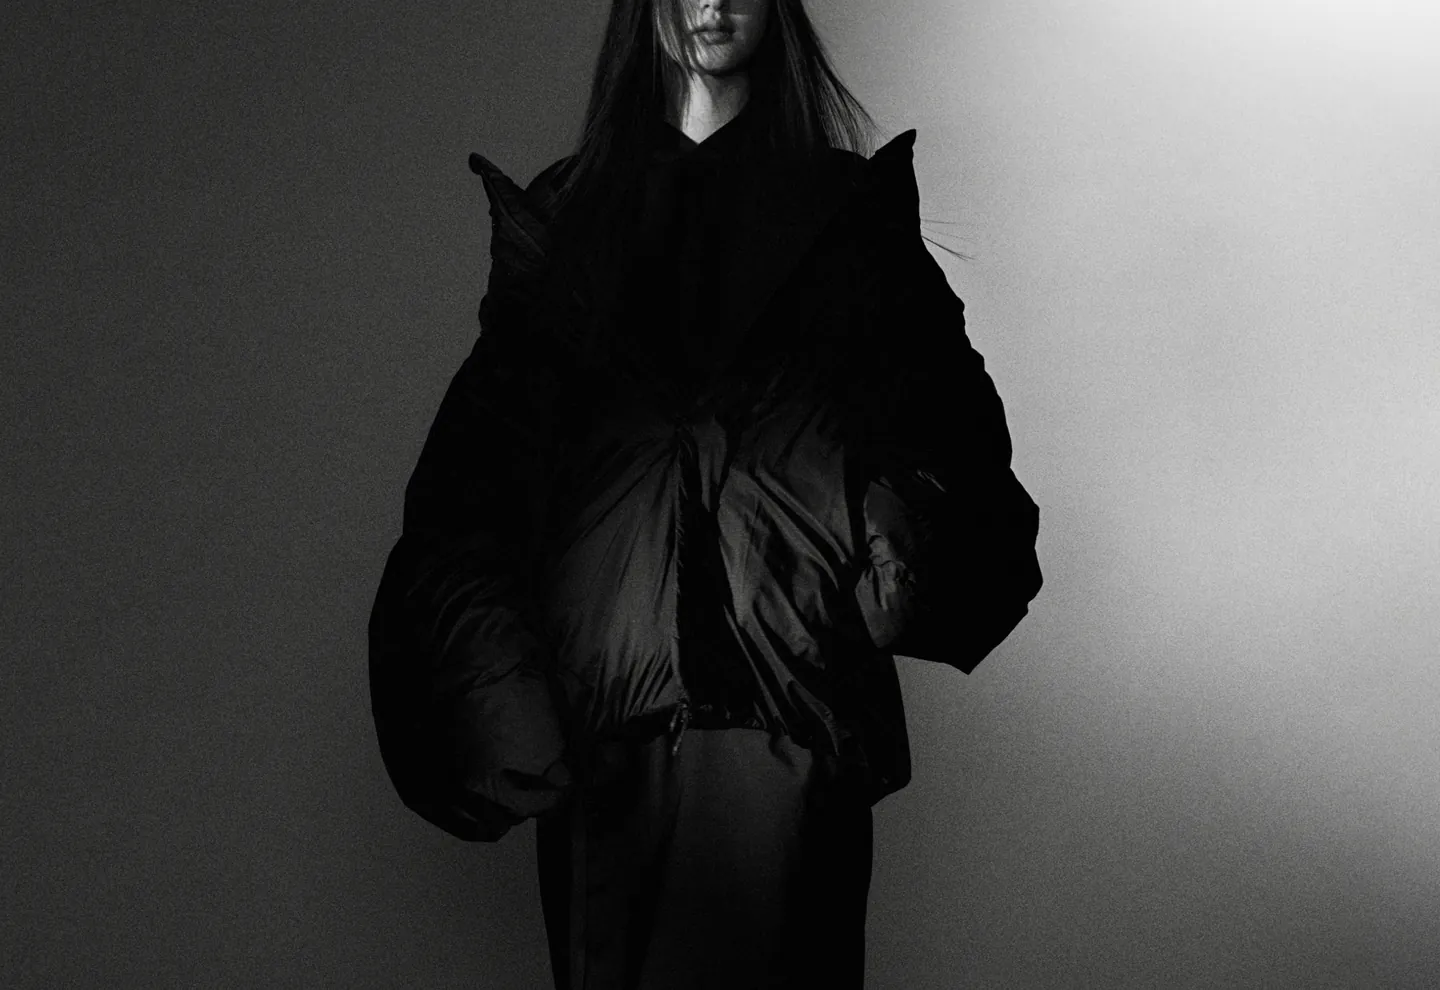
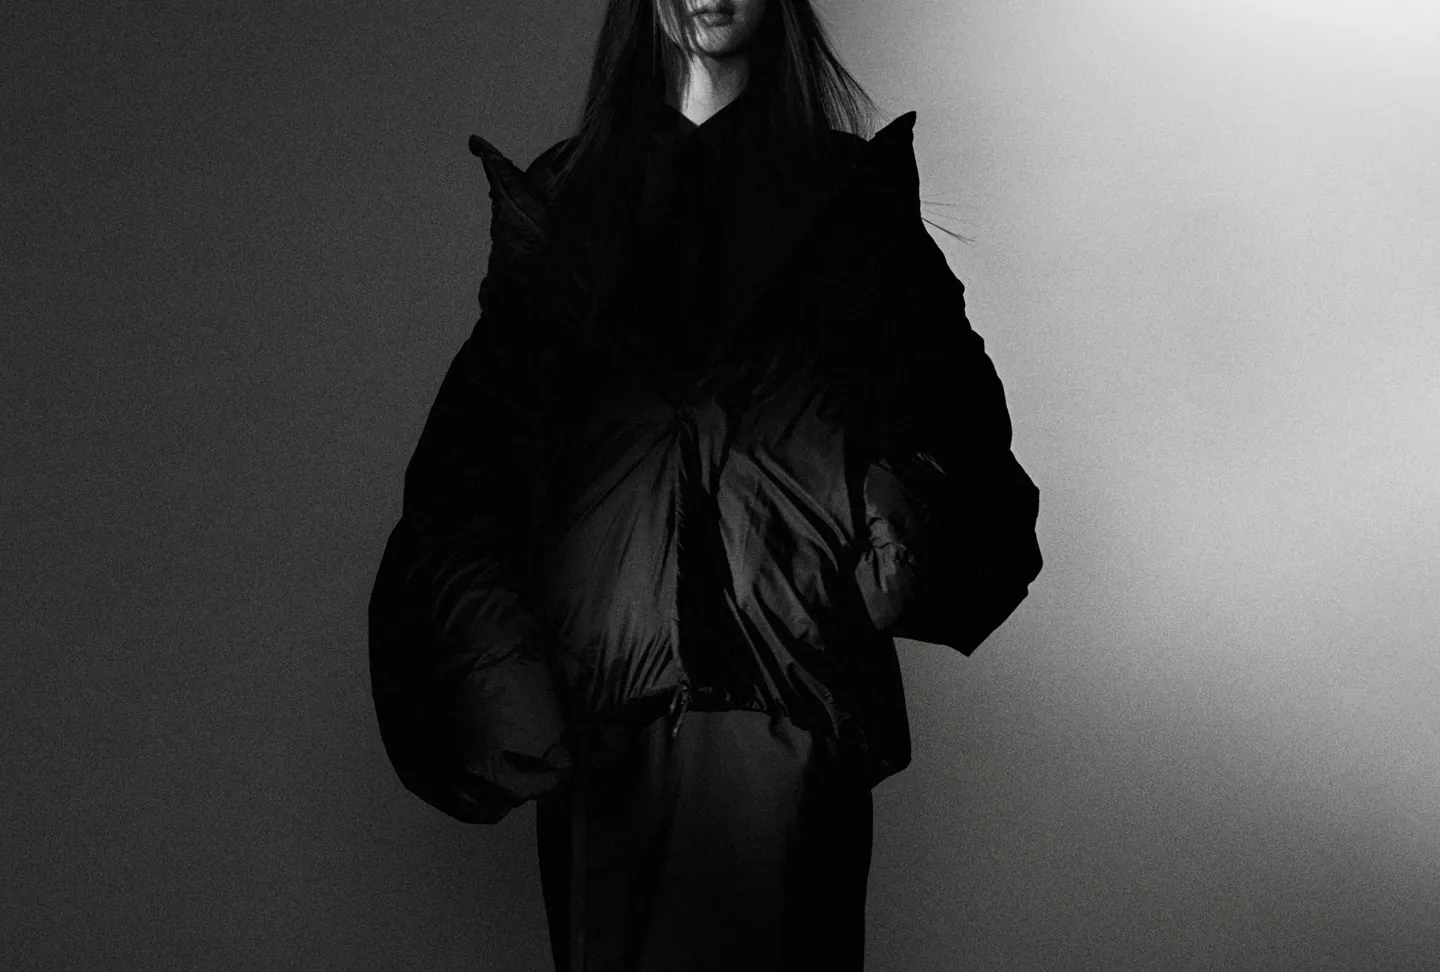
Key visual: trim shot 4 above the lips

diff --git a/jp/index.html b/jp/index.html
@@ -45,7 +45,7 @@
   <link rel="stylesheet" href="https://cdn.jsdelivr.net/gh/orioncactus/pretendard@v1.3.9/dist/web/static/pretendard.min.css" />
   <link rel="stylesheet" href="https://fonts.googleapis.com/css2?family=Noto+Sans+JP:wght@400&display=swap" />
   <link rel="stylesheet" href="https://cdn.jsdelivr.net/gh/orioncactus/pretendard@v1.3.9/dist/web/static/pretendard-jp.min.css" />
-  <link rel="stylesheet" href="../style.css?v=20261124133437" />
+  <link rel="stylesheet" href="../style.css?v=20261124133552" />
   <script type="importmap">{ "imports": { "three": "https://unpkg.com/three@0.160.0/build/three.module.min.js" } }</script>
   <script>
     // The intro plays until it has been seen through once in this browsing
@@ -134,7 +134,7 @@
           <img src="../img/kv-slide-1@2x.webp" srcset="../img/kv-slide-1@1x.webp 1440w, ../img/kv-slide-1@2x.webp 2400w" sizes="100vw" width="2400" height="1650" alt="" class="kv__slide" style="--x:55%" fetchpriority="high" />
           <img data-src="../img/kv-slide-2@2x.webp" data-srcset="../img/kv-slide-2@1x.webp 1440w, ../img/kv-slide-2@2x.webp 2400w" sizes="100vw" width="2400" height="1650" alt="" class="kv__slide" style="--x:62%" />
           <img data-src="../img/kv-slide-3@2x.webp" data-srcset="../img/kv-slide-3@1x.webp 1440w, ../img/kv-slide-3@2x.webp 2400w" sizes="100vw" width="2400" height="1650" alt="" class="kv__slide" style="--x:40%" />
-          <img data-src="../img/kv-slide-4@2x.webp" data-srcset="../img/kv-slide-4@1x.webp 1440w, ../img/kv-slide-4@2x.webp 2400w" sizes="100vw" width="2400" height="1650" alt="" class="kv__slide" style="--x:50%;--y:0%;--o:50% 0%" />
+          <img data-src="../img/kv-slide-4@2x.webp" data-srcset="../img/kv-slide-4@1x.webp 1440w, ../img/kv-slide-4@2x.webp 2400w" sizes="100vw" width="2400" height="1620" alt="" class="kv__slide" style="--x:50%;--y:0%;--o:50% 0%" />
           <img data-src="../img/kv-slide-5@2x.webp" data-srcset="../img/kv-slide-5@1x.webp 1440w, ../img/kv-slide-5@2x.webp 2400w" sizes="100vw" width="2400" height="1650" alt="" class="kv__slide" style="--x:55%" />
         </div>
       </div>
@@ -315,7 +315,7 @@
   </main>
 
   <script src="https://cdn.jsdelivr.net/npm/lenis@1.3.26/dist/lenis.min.js"></script>
-  <script src="../main.js?v=20261124133437"></script>
-  <script type="module" src="../intro/intro.js?v=20261124133437" onerror="window.aansSkipIntro && window.aansSkipIntro()"></script>
+  <script src="../main.js?v=20261124133552"></script>
+  <script type="module" src="../intro/intro.js?v=20261124133552" onerror="window.aansSkipIntro && window.aansSkipIntro()"></script>
 </body>
 </html>

diff --git a/kr/index.html b/kr/index.html
@@ -43,7 +43,7 @@
   <link rel="preconnect" href="https://fonts.gstatic.com" crossorigin />
   <link rel="stylesheet" href="https://fonts.googleapis.com/css2?family=Oswald:wght@300;400;500&display=swap" />
   <link rel="stylesheet" href="https://cdn.jsdelivr.net/gh/orioncactus/pretendard@v1.3.9/dist/web/static/pretendard.min.css" />
-  <link rel="stylesheet" href="../style.css?v=20261124133437" />
+  <link rel="stylesheet" href="../style.css?v=20261124133552" />
   <script type="importmap">{ "imports": { "three": "https://unpkg.com/three@0.160.0/build/three.module.min.js" } }</script>
   <script>
     // The intro plays until it has been seen through once in this browsing
@@ -132,7 +132,7 @@
           <img src="../img/kv-slide-1@2x.webp" srcset="../img/kv-slide-1@1x.webp 1440w, ../img/kv-slide-1@2x.webp 2400w" sizes="100vw" width="2400" height="1650" alt="" class="kv__slide" style="--x:55%" fetchpriority="high" />
           <img data-src="../img/kv-slide-2@2x.webp" data-srcset="../img/kv-slide-2@1x.webp 1440w, ../img/kv-slide-2@2x.webp 2400w" sizes="100vw" width="2400" height="1650" alt="" class="kv__slide" style="--x:62%" />
           <img data-src="../img/kv-slide-3@2x.webp" data-srcset="../img/kv-slide-3@1x.webp 1440w, ../img/kv-slide-3@2x.webp 2400w" sizes="100vw" width="2400" height="1650" alt="" class="kv__slide" style="--x:40%" />
-          <img data-src="../img/kv-slide-4@2x.webp" data-srcset="../img/kv-slide-4@1x.webp 1440w, ../img/kv-slide-4@2x.webp 2400w" sizes="100vw" width="2400" height="1650" alt="" class="kv__slide" style="--x:50%;--y:0%;--o:50% 0%" />
+          <img data-src="../img/kv-slide-4@2x.webp" data-srcset="../img/kv-slide-4@1x.webp 1440w, ../img/kv-slide-4@2x.webp 2400w" sizes="100vw" width="2400" height="1620" alt="" class="kv__slide" style="--x:50%;--y:0%;--o:50% 0%" />
           <img data-src="../img/kv-slide-5@2x.webp" data-srcset="../img/kv-slide-5@1x.webp 1440w, ../img/kv-slide-5@2x.webp 2400w" sizes="100vw" width="2400" height="1650" alt="" class="kv__slide" style="--x:55%" />
         </div>
       </div>
@@ -311,7 +311,7 @@
   </main>
 
   <script src="https://cdn.jsdelivr.net/npm/lenis@1.3.26/dist/lenis.min.js"></script>
-  <script src="../main.js?v=20261124133437"></script>
-  <script type="module" src="../intro/intro.js?v=20261124133437" onerror="window.aansSkipIntro && window.aansSkipIntro()"></script>
+  <script src="../main.js?v=20261124133552"></script>
+  <script type="module" src="../intro/intro.js?v=20261124133552" onerror="window.aansSkipIntro && window.aansSkipIntro()"></script>
 </body>
 </html>

diff --git a/index.html b/index.html
@@ -44,7 +44,7 @@
   <link rel="stylesheet" href="https://fonts.googleapis.com/css2?family=Oswald:wght@300;400;500&display=swap" />
   <link rel="stylesheet" href="https://cdn.jsdelivr.net/gh/orioncactus/pretendard@v1.3.9/dist/web/static/pretendard.min.css" />
   <link rel="stylesheet" href="https://fonts.googleapis.com/css2?family=Inter:wght@400&display=swap" />
-  <link rel="stylesheet" href="style.css?v=20261124133437" />
+  <link rel="stylesheet" href="style.css?v=20261124133552" />
   <script type="importmap">{ "imports": { "three": "https://unpkg.com/three@0.160.0/build/three.module.min.js" } }</script>
   <script>
     // The intro plays until it has been seen through once in this browsing
@@ -133,7 +133,7 @@
           <img src="img/kv-slide-1@2x.webp" srcset="img/kv-slide-1@1x.webp 1440w, img/kv-slide-1@2x.webp 2400w" sizes="100vw" width="2400" height="1650" alt="" class="kv__slide" style="--x:55%" fetchpriority="high" />
           <img data-src="img/kv-slide-2@2x.webp" data-srcset="img/kv-slide-2@1x.webp 1440w, img/kv-slide-2@2x.webp 2400w" sizes="100vw" width="2400" height="1650" alt="" class="kv__slide" style="--x:62%" />
           <img data-src="img/kv-slide-3@2x.webp" data-srcset="img/kv-slide-3@1x.webp 1440w, img/kv-slide-3@2x.webp 2400w" sizes="100vw" width="2400" height="1650" alt="" class="kv__slide" style="--x:40%" />
-          <img data-src="img/kv-slide-4@2x.webp" data-srcset="img/kv-slide-4@1x.webp 1440w, img/kv-slide-4@2x.webp 2400w" sizes="100vw" width="2400" height="1650" alt="" class="kv__slide" style="--x:50%;--y:0%;--o:50% 0%" />
+          <img data-src="img/kv-slide-4@2x.webp" data-srcset="img/kv-slide-4@1x.webp 1440w, img/kv-slide-4@2x.webp 2400w" sizes="100vw" width="2400" height="1620" alt="" class="kv__slide" style="--x:50%;--y:0%;--o:50% 0%" />
           <img data-src="img/kv-slide-5@2x.webp" data-srcset="img/kv-slide-5@1x.webp 1440w, img/kv-slide-5@2x.webp 2400w" sizes="100vw" width="2400" height="1650" alt="" class="kv__slide" style="--x:55%" />
         </div>
       </div>
@@ -312,7 +312,7 @@
   </main>
 
   <script src="https://cdn.jsdelivr.net/npm/lenis@1.3.26/dist/lenis.min.js"></script>
-  <script src="main.js?v=20261124133437"></script>
-  <script type="module" src="intro/intro.js?v=20261124133437" onerror="window.aansSkipIntro && window.aansSkipIntro()"></script>
+  <script src="main.js?v=20261124133552"></script>
+  <script type="module" src="intro/intro.js?v=20261124133552" onerror="window.aansSkipIntro && window.aansSkipIntro()"></script>
 </body>
 </html>

diff --git a/intro/intro.js b/intro/intro.js
@@ -1,6 +1,6 @@
 import * as THREE from "three";
-import { VERTEX_SHADER, FRAGMENT_SHADER } from "./shaders.js?v=20261124133437";
-import { loadLogoTexture } from "./logoTexture.js?v=20261124133437";
+import { VERTEX_SHADER, FRAGMENT_SHADER } from "./shaders.js?v=20261124133552";
+import { loadLogoTexture } from "./logoTexture.js?v=20261124133552";
 
 // Intro (Figma A_Intro, 2597:1545), layered over the top of the home page.
 //

diff --git a/intro/logoTexture.js b/intro/logoTexture.js
@@ -1,5 +1,5 @@
 import * as THREE from "three";
-import { signedDistanceField } from "./sdf.js?v=20261124133437";
+import { signedDistanceField } from "./sdf.js?v=20261124133552";
 
 // Rasterizes the logo's SVG path(s) FILLED onto an offscreen canvas, then
 // bakes a real signed distance field from that mask (see sdf.js). The shader
